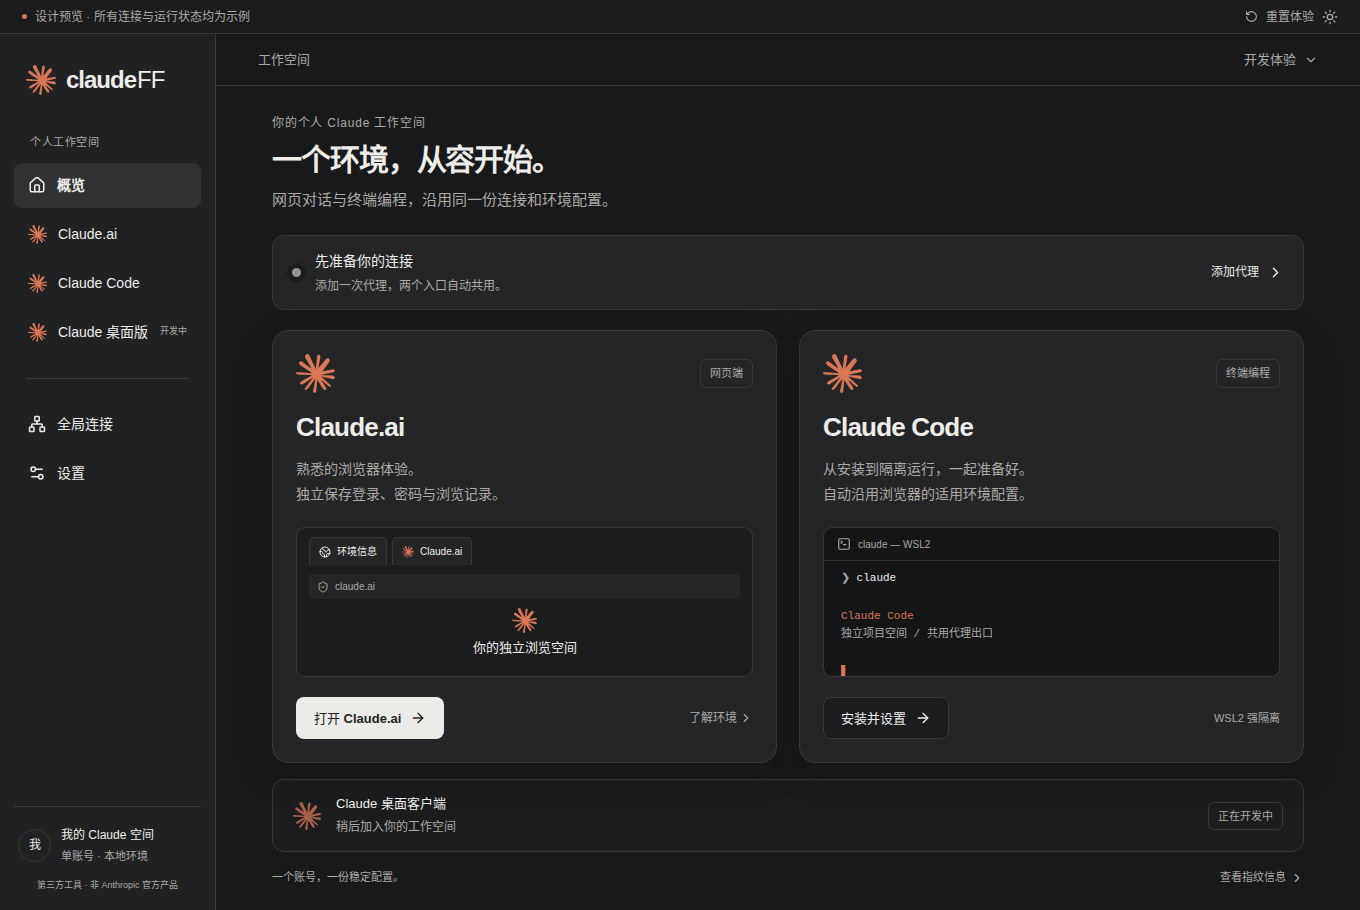
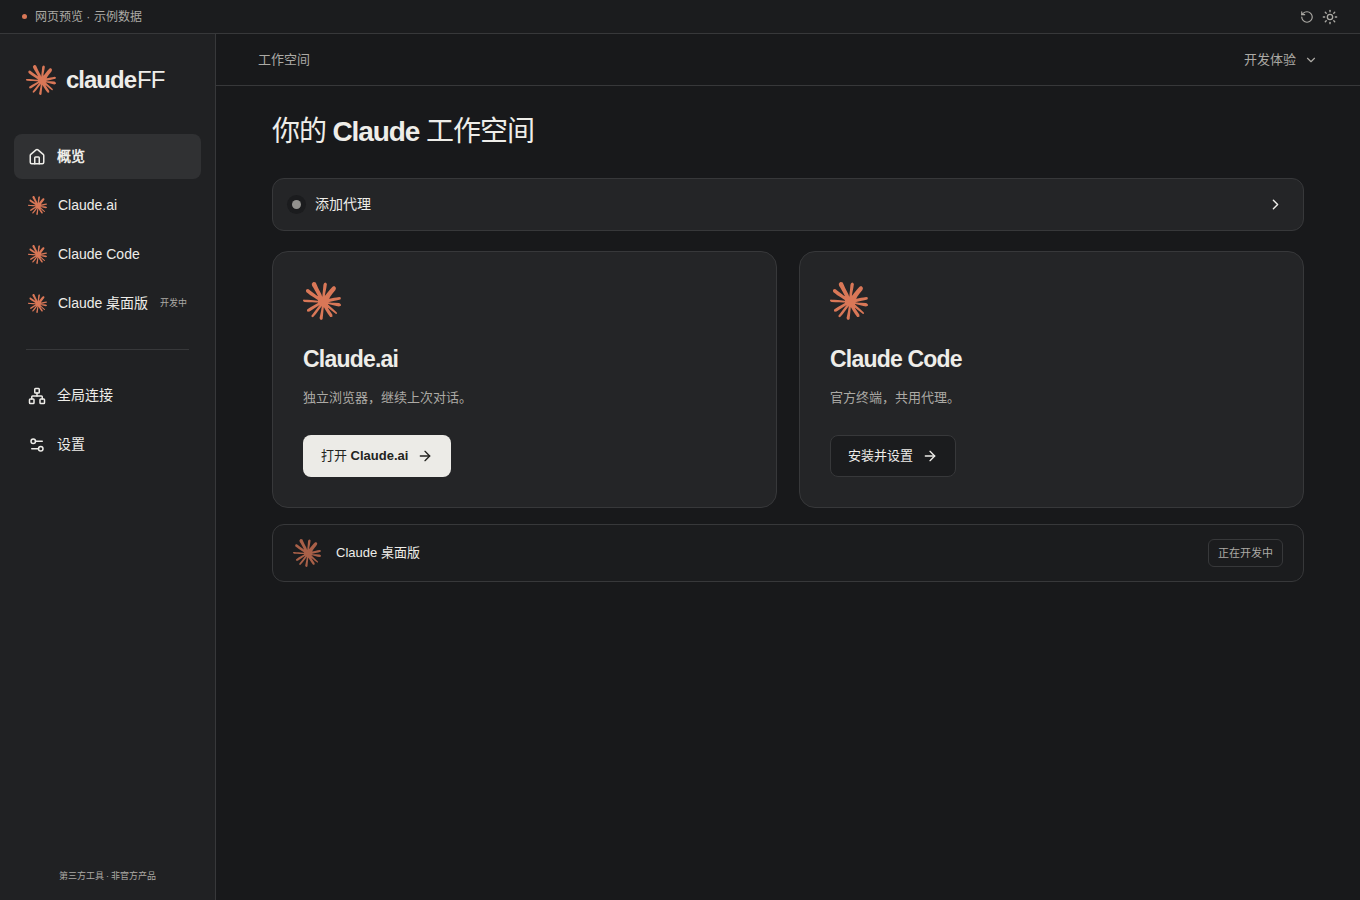
docs: record verified portable release and native platform evidence

diff --git a/docs/开发进度与验证报告.md b/docs/开发进度与验证报告.md
@@ -1,22 +1,64 @@
 # 开发进度与验证报告
 
-2026-10-11 · V3 修复进行中。当前基线：完整浏览器、上次对话恢复、真实共享代理、官方原生 Code、精简 UI。V2 的 WSL/沙箱实现与按需内核下载已取消，旧测试不计入新版验收。
+2026-10-11 · V3 开发体验版 **v0.3.0-dev.1 已发布**。产物源提交 `13082c5d7151e087f4ecddc22a6de50a1b34771f`。本次报告替代旧版按需内核下载/WSL 方案的验收结论；工作日志保留历史。
 
-| 项目 | 当前状态 |
+## 已实现并验证
+
+| 项目 | 实际证据与范围 |
 | --- | --- |
-| 代理诊断 | 用户授权网关 HTTP/SOCKS5 独立诊断成功：SG/Singapore、Asia/Singapore，332–781ms；不等同 Windows 原生 UI 通过 |
-| 代理修复 | 四段式/URL/剪贴板识别、保存检测、错误分类和备用站代码已改，等待云测 |
-| 浏览器 | 完整随包内核、原生会话/URL 恢复、独立检测标签已改，等待真实 Windows 云测 |
-| Code | 原生官方安装器、清单校验、共享代理、ConPTY/PTY 与本机项目已改，等待实际安装/终端云测 |
-| Windows ZIP | Chromium + 固定 WebView2 的完整包装工作流已改，尚未产生新版成功产物 |
-| macOS | 平台适配和 Keychain 代码已加入，尚未完成云端构建/架构/运行验收 |
-| UI | 按用户要求去掉装饰预览与重复文案，加入必要导入/状态/商家提示，等待前端云测截图 |
-| 授权 | 旧版后期授权/用户面板代码保留，生产未部署、规则待最终确认，开发包仍可跳过 |
+| 真实 Windows 管理界面 | 完整 EXE + 固定 WebView2 实际窗口，Playwright 连接原生实例，不替换 window.go；系统剪贴板自动识别、保存检测、启动浏览器、应用重启全部通过 |
+| 用户授权真实代理 | HTTP 方式实际客户端检测出口匹配、SG/Singapore、Asia/Singapore、1050ms 请求耗时；真实随包浏览器出口一致。另有独立 HTTP/SOCKS5 网络诊断成功，不把诊断冒充客户端全部协议实测 |
+| 代理导入与恢复 | 四段式、认证 URL、转义/IPv6/含冒号密码，拒绝误存认证串；407/超时/协议分类、备用站、地理信息匹配；旧误存主机自动修复与无法识别时重新填写，保留 profile；模块/前端云测通过 |
+| 完整内置资源 | Windows ZIP 含完整 fingerprint-chromium 148 和 WebView2 155，固定摘要与微软签名验证，用户不下载内核；没有旧 WSL/Linux/helper 资源 |
+| 浏览器恢复 | Windows 与 Apple Silicon 实际内核：认证测试代理、真实出口、语言/时区、同种子 Canvas、localStorage 与具体对话 URL 重启恢复通过；恢复不覆盖对话、不重复创建官网标签 |
+| 官方原生 Code | Windows x64、Mac ARM/Intel 真实安装并运行官方 `2.1.287 (Claude Code)`；认证测试代理、ConPTY/PTY 输入/输出/尺寸、本机项目、停止后保留安装通过。没有沙箱、指纹/时区同步或先浏览器门槛 |
+| 秘密存储 | Windows DPAPI 与 macOS Keychain 往返、随机密文/篡改拒绝相关测试通过；Windows 实际窗口配置重启保留且公开快照无密码 |
+| Mac 管理界面 | 两架构真实 Wails/WKWebView 应用编译/启动，React 原生页面加载后通过事件桥向 Go 报告就绪，云端截图已检查；非仅进程存活 |
+| 前端精简 | 10 项交互通过，1 项真实后台用例在公开预览跳过并由单独服务工作流运行；三入口、导入/商家/红字、Code 独立使用、内核缺失、主题、375px/800px、键盘及开发登录通过 |
+| 后期授权代码 | 模块与独立真实服务/管理面板联动通过；生产未部署、最终商业规则未确认，开发 ZIP 保留登录跳过 |
 
-新版运行成功、工作流链接、下载地址和摘要在云测后更新。旧 [v0.2.0-dev.1](https://github.com/yingziseo/claudeFF/releases/tag/v0.2.0-dev.1) 为历史产物，不推荐继续测试，不表示修复交付已完成。
+原生 Code 复核的是传给该进程的转发入口，取消强隔离后不强制限制其所有子进程网络。代理秘密只临时用于加密云测，已删除 `CLAUDEFF_TEST_PROXY`；未写入仓库、日志、截图或发布包。后续无秘密的 CI 使用受控认证测试代理，如实标记，不假称用户住宅代理。
 
-未验证：真实 Claude 账号登录、模型请求、密码自动填充、全部扩展/字体/WebRTC/DNS/IPv6、用户网络与各系统版本、高 DPI、异常掉电与长期更新恢复。独立 HTTPS 请求 Claude.ai 曾返回 403，不能据此声称官网可用或登录成功；需要真实浏览器观测并如实记录。
+## 最终云端工作流
 
-全部项目依赖/构建/测试在 GitHub Actions；当前服务器只编辑、轻量网络诊断和 Git。测试凭据只暂存加密 Actions secret，完成后删除，不进入仓库、图片、日志或包。
+以下五项均针对同一产物源提交，全部成功；全部依赖、编译、测试和截图在 GitHub Actions。
 
-当前上游 macOS 148 DMG 已在云端确认仅含 arm64 内核。Apple Silicon 提供浏览器 + Code；Intel Mac 当前提供原生 Code，浏览器入口明确不可用，不用普通 Chromium 冒充指纹内核，也不分发错误架构的程序。
+| 工作流 | 结果 |
+| --- | --- |
+| [Windows portable client](https://github.com/yingziseo/claudeFF/actions/runs/38069511799) | 真实内核/Code/原生窗口/用户代理、完整 ZIP |
+| [macOS native client](https://github.com/yingziseo/claudeFF/actions/runs/38069511847) | ARM + Intel 原生 Code、Keychain、管理渲染；ARM 内核恢复；双包 |
+| [Core validation](https://github.com/yingziseo/claudeFF/actions/runs/38069511803) | 模块 race、代理与已有数据恢复回归 |
+| [Frontend preview](https://github.com/yingziseo/claudeFF/actions/runs/38069511848) | 前端构建/交互/截图与公开部署 |
+| [License service and panel](https://github.com/yingziseo/claudeFF/actions/runs/38069511784) | 真实服务/用户面板联动及服务构建 |
+| [Publish verified portable packages](https://github.com/yingziseo/claudeFF/actions/runs/38069900156) | 核对五项同源成功、ZIP 摘要、Windows 包必备资源和逐文件摘要，再发布新 tag |
+
+## 下载与包校验
+
+[Release 页面](https://github.com/yingziseo/claudeFF/releases/tag/v0.3.0-dev.1) · [完整 SHA256 校验文件](https://github.com/yingziseo/claudeFF/releases/download/v0.3.0-dev.1/SHA256SUMS.txt) · [Windows 原生验证结果](https://github.com/yingziseo/claudeFF/releases/download/v0.3.0-dev.1/windows-native-verification.json) · [运行时来源](https://github.com/yingziseo/claudeFF/releases/download/v0.3.0-dev.1/RUNTIMES.json)
+
+| 下载 | 大小 | 功能 |
+| --- | --- | --- |
+| [Windows x64 ZIP](https://github.com/yingziseo/claudeFF/releases/download/v0.3.0-dev.1/claudeFF-windows-x64.zip) | 514,867,735 bytes，约 491 MiB | 完整指纹浏览器 + 原生 Code；内置 WebView2 |
+| [Mac Apple Silicon ZIP](https://github.com/yingziseo/claudeFF/releases/download/v0.3.0-dev.1/claudeFF-macos-apple-silicon.zip) | 162,589,694 bytes | 完整 ARM 指纹浏览器 + 原生 Code |
+| [Mac Intel ZIP](https://github.com/yingziseo/claudeFF/releases/download/v0.3.0-dev.1/claudeFF-macos-intel.zip) | 7,916,554 bytes | 原生 Code；上游仅有 ARM Mac 内核，浏览器入口明确禁用 |
+
[1 lines of base64/hex data omitted]
+
+Windows 原生截图（出口信息已遮蔽）：
+
+![Windows 原生客户端](assets/windows-native.png)
+
+Mac Intel 原生截图（如实显示当前仅支持 Code）：
+
+![Mac 原生客户端](assets/macos-intel-native.png)
+
+[网页预览](https://yingziseo.github.io/claudeFF/) 为示例数据；其截图不能替代原生验证。
+
+## 尚未验收与后续
+
+- 未用真实 Claude 账号完成登录、密码自动填充、OAuth 或模型请求；默认官网标签能打开不等于账号登录通过。直接 HTTPS 诊断曾返回 403，实际账号与挑战页面需要用户体验，不能宣称已完成。
+- 原生 Code 官方登录若打开系统默认浏览器，该浏览器不自动使用本工具代理。可把登录链接复制到已启动的受管浏览器；Intel Mac 需使用已有可访问网络的浏览器。
+- 全部扩展/字体、WebRTC/DNS/IPv6、高 DPI、各系统版本、长时间运行、异常掉电与升级恢复等未完整专项验收。Windows 云端运行器结果不等同用户 Win11 每种配置已测试；Mac 实际云测为 macOS 15。
+- 开发产物未完成正式发行签名/公证，商业服务未部署；永久卡密策略、换机/恢复与运维仍最后收敛。Claude 桌面版按要求仅预留。
+
+用户按运行说明解压新版实际体验后，可根据具体复现继续修正。旧 v0.2.0-dev.1 为历史产物，不再用它测试新版功能。

diff --git a/工作日志.md b/工作日志.md
@@ -191,3 +191,10 @@
 - f9472cf 的核心、前端、授权、Windows 与 macOS 工作流全部成功。Windows 原生 Wails/WebView2 窗口真实识别用户授权剪贴板、DPAPI 保存、检测 SG/Singapore/Asia/Singapore（1153ms），真实随包浏览器出口一致，应用重启保留配置。Windows 官方 Code 2.1.287 与 ConPTY、真实浏览器对话 URL/存储恢复通过；Mac ARM 真实浏览器恢复、两架构原生 Code/PTY/Keychain 与应用构建/启动通过。
 - Windows 完整包实际 514,868,102 bytes，尚未发布最终 Release；未用真人 Claude 账号登录或执行模型请求。
 - 发布前补上 macOS 前端必须使用桌面相对资源路径（避免仅进程存活却加载错误），加真实 React 页面向 Go 事件桥上报渲染就绪及云端截图；异常旧代理行提供可重新填写的界面，保留原 profile。修复随包 README 的报告链接，继续对应最终源提交的云测。
+
+## 2026-10-11 01:06（北京时间）· V3 完整包正式交付为开发体验版
+
+- 产物源 13082c5 对应五项最终工作流全部成功：Windows 38069511799、macOS 38069511847、Core 38069511803、前端 38069511848、授权 38069511784。Windows 真实 Wails 窗口/剪贴板/用户代理检测 SG/Singapore/Asia/Singapore（1050ms）、浏览器出口一致、配置重启通过；实际内核对话 URL/存储/Canvas 恢复及官方 Code 2.1.287 原生终端通过。Mac ARM/Intel Code/Keychain/管理 React 渲染就绪及截图通过；ARM 内核真实恢复通过，Intel 不冒充支持浏览器。
+- 云端发布工作流 38069900156 核对同源成功状态、资源完整和逐文件摘要后发布 https://github.com/yingziseo/claudeFF/releases/tag/v0.3.0-dev.1 。Windows ZIP 514,867,735 bytes / SHA256 d6db6cb639368b2cf2bd738cde1d19caa7b0aca71ed8edb9e385cc0dc1d6342b；Mac ARM 162,589,694 bytes / 56399e9e5d909dd4afe721892124062d50dc38f50373a923447f40747a7b9ccc；Mac Intel 7,916,554 bytes / 5461b6b9c26ec588c169778c36bc72e1de2c82bc68e632c953473ad8e7021d4f。新 tag 指向真实源，不覆盖旧版。
+- 临时 CLAUDEFF_TEST_PROXY 已删除，并查询确认不再存在。只从云端范围读取小型截图/结果/摘要核对，没有在本机下载运行大包、安装依赖、编译或测试。前端预览已部署；当前示例/原生截图与全部 docs/README/AGENTS 更新到最新状态。
+- 未验证真人 Claude 登录/模型请求、完整权限/网络泄漏/字体扩展、各系统/高 DPI/长时间恢复。Code 为普通原生版，无强隔离；外部登录浏览器不会自动继承应用代理。商业策略/生产部署、发行签名/公证仍未验收，默认包开发登录，桌面版占位。下一步由用户在实际 Windows/Mac 体验并提供复现反馈；核心当前授权开发已交付，不把这些未测事项写成通过。

diff --git a/docs/前端测试与优化记录.md b/docs/前端测试与优化记录.md
@@ -1,9 +1,17 @@
 # 前端测试与优化记录
 
-2026-10-11 · V3。用户明确要求降噪，已删除装饰性 mini 浏览器/终端、长篇说明、强隔离步骤和 Code 环境差异确认。当前首页为两个入口、一个连接状态、桌面版占位；复杂信息在浏览器指纹弹窗。
+2026-10-11 · V3。按用户“精简、降噪、克制、干净”要求，去掉装饰浏览器/终端、重复说明、旧沙箱步骤和指纹差异弹窗。首页只保留两个入口、连接状态和桌面版占位；参数在浏览器指纹弹窗。
 
-新版用例：官方图标/三入口、四段式与 URL 导入、密码遮蔽、商家原图/推荐链接/红字、Code 无前置浏览器门槛、内置内核直接启动/缺失恢复、产品开发登录无认证请求、明暗主题持久化、375px 无溢出、800px 主操作可见、键盘/减少动画、初始化恢复、管理面板演示。
+[最终前端云测](https://github.com/yingziseo/claudeFF/actions/runs/38069511848)：10 项通过，1 项真实后台测试在预览跳过；真实后台由 [独立服务工作流](https://github.com/yingziseo/claudeFF/actions/runs/38069511784) 运行并通过。
 
-额外 Windows 原生 UI 脚本连接真实 Wails/WebView2 窗口，读取系统剪贴板、保存用户授权代理、检查实际出口/SG/延迟/秘密存储、启动完整内核并核验出口、应用重启恢复配置。该测试无模拟绑定、无凭据截图/公开 trace，与预览用例分开记录。
+验证覆盖官方素材/三入口，四段式与 URL 自动填充、密码遮蔽、IPDeep 图片/推荐链接/固定红字，Code 独立使用、内核随包直接启动与缺失恢复，开发登录无认证请求，主题持久化、375px 无溢出、800px 主按钮可见、键盘/减少动画、初始化恢复和管理面板演示。
 
-云测尚未完成，不能复用 V2 结果宣称新版通过。成功数量、实际截图与工作流链接完成后写入进度报告。真实官方登录与模型调用不由静态预览证明。
+[Windows 实际窗口测试](https://github.com/yingziseo/claudeFF/actions/runs/38069511799) 使用原生 Wails/WebView2 与 Go 绑定，真实系统剪贴板/用户授权代理/完整内核/重启配置通过，不使用模拟 window.go。截图已脱敏。[Mac 双架构](https://github.com/yingziseo/claudeFF/actions/runs/38069511847) 的真实 React 管理界面通过事件桥报告就绪，截图确认加载；Intel 浏览器入口明确禁用。
+
+![当前深色预览](assets/workspace-dark.png)
+
+![当前浅色预览](assets/workspace-light.png)
+
+![代理页预览](assets/connection-preview.png)
+
+以上为设计预览示例；实际窗口及未验证官方账号流程见 [进度报告](开发进度与验证报告.md)。没有把示例交互或进程存活当成全部业务验收。

diff --git a/AGENTS.md b/AGENTS.md
@@ -76,7 +76,7 @@
 
 ## 7. 当前交付状态
 
-- V2 已发布，用户反馈真实故障后正在修复代理、全内核打包、会话恢复与原生 Code；后期授权服务已有代码，验证范围见 `docs/开发进度与验证报告.md`。不继续引用早期“新版尚未开发”状态。
+- V2 已发布，用户反馈故障后已发布 v0.3.0-dev.1：真实 Windows 代理/内核/会话恢复与原生 Code、Mac 原生 Code/渲染均通过对应云测；后期授权服务已有代码，验证范围见 `docs/开发进度与验证报告.md`。不继续引用早期“新版尚未开发”状态。
 - 用户已接受 Windows/macOS 实机安装与体验由其稍后验证；无需在低配 Linux 服务器做模拟构建，也不因未有用户审美反馈暂停已授权开发。
 - 默认 ZIP 是保留开发登录的体验版。生产服务未部署、商业规则未确认、完整 Windows 实机未测时，禁止声称正式售卖验收完成。
 
@@ -86,3 +86,5 @@
 - Windows ZIP 必须直接内置指纹 Chromium、固定 WebView2 运行时。仅 Claude Code 本体通过官方渠道下载安装；不在用户首次运行时下载内核；macOS 使用系统 WebView 与平台适配内核。不打包已取消的 WSL/Linux 资源。
 - 代理支持一键粘贴识别，至少支持主机:端口:用户名:密码、常见代理 URL 和带认证格式，填充后保护密码。导入校验错误、407、连接超时、协议/TLS 与检测站故障必须区分，不能统一吞成一句失败。检测备用地址始终经过同一代理，不直连。
 - 代理页增加 IPDeep 图片和用户推荐链接，两者点击都打开该链接；展示多地区与用户给定特价信息。红字固定为：中国大陆网络，无法直接使用代理服务，请您自行准备海外网络环境。素材本地随前端打包，不在客户端临时抓取。
+
+- 最新完整包为 v0.3.0-dev.1；Windows 与 Mac ARM 含完整浏览器，Mac Intel 当前仅原生 Code（上游 Mac 内核只有 arm64），入口须明确不可用。临时真实代理 Actions secret 已删除，后续 CI 用受控认证代理，不假称住宅代理验收。

diff --git a/README.md b/README.md
@@ -2,9 +2,11 @@
 
 单账号 Claude 工作空间：完整指纹浏览器 + 官方原生 Claude Code，共用一份全局代理。主要交付 Windows 11 x64，增加 macOS 支持。Claude 桌面版预留“正在开发中”。
 
-新版修复正在云端验证：内核和 Windows WebView2 直接随 ZIP，浏览器恢复上次标签与对话；代理支持一键粘贴、真实地区/耗时与具体失败原因。Code 正常原生安装，不再需要 WSL2、虚拟机或沙箱。
+**[v0.3.0-dev.1 已发布](https://github.com/yingziseo/claudeFF/releases/tag/v0.3.0-dev.1)**，真实 Windows 客户端代理/内核及 Mac 原生 Code 云测通过：内核和 Windows WebView2 直接随 ZIP，浏览器恢复上次标签与对话；代理支持一键粘贴、真实地区/耗时与具体失败原因。Code 正常原生安装，不再需要 WSL2、虚拟机或沙箱。
 
-- [网页设计预览](https://yingziseo.github.io/claudeFF/)（示例数据，更新以云端部署为准）
+- [Windows 完整 ZIP](https://github.com/yingziseo/claudeFF/releases/download/v0.3.0-dev.1/claudeFF-windows-x64.zip)（约 491 MiB）
+- [Mac ARM / Intel 下载](https://github.com/yingziseo/claudeFF/releases/tag/v0.3.0-dev.1)（Intel 当前仅 Code）
+- [网页设计预览](https://yingziseo.github.io/claudeFF/)（示例数据）
 - [开发计划](docs/claudeFF开发项目计划.md) / [真实进度与下载](docs/开发进度与验证报告.md)
 - [Windows 说明](docs/Windows运行说明.md) / [macOS 说明](docs/macOS运行说明.md)
 - [协作规则](AGENTS.md) / [工作日志](工作日志.md) / [依赖来源](docs/第三方许可与来源.md)

diff --git a/docs/Windows运行说明.md b/docs/Windows运行说明.md
@@ -15,3 +15,5 @@ V3 · Windows 11 x64。完整解压 ZIP，双击 `claudeFF.exe`。保留 `browse
 若“内置资源缺失”，重新完整解压，不能只复制 EXE。检测失败按界面区分认证、超时或协议错误；截图和反馈不要包含代理密码、Cookie、卡密或令牌。
 
 上一版 v0.2.0-dev.1 不含内核且采用 WSL 方案，已被替代。当前构建/下载状态见 [验证报告](https://github.com/yingziseo/claudeFF/blob/main/docs/开发进度与验证报告.md)，不以旧 ZIP 作为新版交付。官方账号授权、实际模型请求、高 DPI、异常断电恢复等未实测项目如实记录。
+
+当前交付为 v0.3.0-dev.1，完整 Windows ZIP 已发布。开发版未做发行签名，系统可能要求首次打开确认。官方 Code 登录若打开默认系统浏览器，它不会自动使用应用代理；可复制登录链接到受管浏览器打开。
